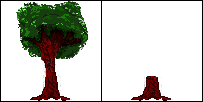
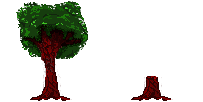
changed the title screen

Changed region(s): [[0.0, 0.0, 1.0, 1.0]]

diff --git a/Marchgame/org.tuxedofish.marchgame/start/Controller.java b/Marchgame/org.tuxedofish.marchgame/start/Controller.java
@@ -210,7 +210,7 @@ public class Controller {
 			elements = false;
 			gui.clearElements();
 			ih.clearElements();
-			gui.newString("loading : 0", Color.red, 100, 20, new Vector2f(0.1f, 0.95f), 20.0f);
+			gui.newString("loading : 0", Color.red, 200, 40, new Vector2f(0.1f, 0.95f), 20.0f);
 			SpriteHolder sph = new SpriteHolder(); ImageReturn images = new ImageReturn();
 			try {
 				sph.addTexture(images.getImage("Enemy2.png"), "Enemy2.png", 49);
@@ -321,8 +321,8 @@ public class Controller {
 		
 		prevhealth = player.getHealth();
 		prevscore = score;
-		scoreid = gui.newString("score : " + score, Color.red, 100, 50, new Vector2f(0.1f, 0.95f), 15.0f);
-		highscoreid = gui.newString("highscore : " + el.getHighScore(), Color.red, 100, 50, new Vector2f(0.1f, 0.85f), 15.0f);
+		scoreid = gui.newString("score : " + score, Color.red, 300, 50, new Vector2f(0.1f, 0.95f), 15.0f);
+		highscoreid = gui.newString("highscore : " + el.getHighScore(), Color.red, 300, 50, new Vector2f(0.1f, 0.85f), 15.0f);
 		elements = true;
 		highscore = el.getHighScore();
 		
@@ -407,7 +407,11 @@ public class Controller {
 		glClearColor(1.0f, 1.0f, 1.0f, 1.0f);
 		
 		gui = new GuiElementHandler();
-		gui.newString("Press X To Play", Color.WHITE, 200.0f, 40.0f, new Vector2f(-0.3f, -0.7f), 25.0f);
+		gui.newString("< NEW GAME >", Color.WHITE, 100, 20, new Vector2f(-0.22f, -0.3f), 10.0f);
+		gui.newString("< FREE PLAY >", Color.WHITE, 100, 20, new Vector2f(-0.22f, -0.4f), 10.0f);
+		gui.newString("< AREANA >", Color.WHITE, 100, 20, new Vector2f(-0.22f, -0.5f), 10.0f);
+		gui.newString("< OPTIONS>", Color.WHITE, 100, 20, new Vector2f(-0.22f, -0.6f), 10.0f);
+		
 		elements = true;
 		
 		DataUtils dutils = new DataUtils();
@@ -442,7 +446,7 @@ public class Controller {
 							gui.clearElements();
 							ih.clearElements();
 							gui.newBar("bar", new Vector2f(-0.5f, 0.95f), loadpercent);
-							gui.newString("loading : " + loadpercent, Color.red, 100, 20, new Vector2f(0.1f, 0.95f), 20.0f);
+							gui.newString("loading : " + loadpercent, Color.red, 200, 40, new Vector2f(0.1f, 0.95f), 20.0f);
 						}
 					}
 					
@@ -451,8 +455,6 @@ public class Controller {
 						if(el!=null) {
 							utils.setup(bgdatafb, bgvbo, bgvao, shaderhandler, loadscreen, 1, bgindicesb, matrix, 0);
 						} else {
-							gui.clearElements();
-							gui.newString("Press X To Play", new Color(0.0f, 0.0f, 0.0f, opacity), 200.0f, 40.0f, new Vector2f(-0.3f, -0.7f), 25.0f);
 							utils.setup(bgdatafb, bgvbo, bgvao, shaderhandler, titlescreen, 1, bgindicesb, matrix, 0);
 						}
 						glDrawElements(GL_TRIANGLES, 6, GL_UNSIGNED_INT, 0);

diff --git a/Marchgame/org.tuxedofish.marchgame/start/gui/GuiString.java b/Marchgame/org.tuxedofish.marchgame/start/gui/GuiString.java
@@ -102,7 +102,7 @@ public class GuiString implements GuiElement{
 		
 		ImageReturn images = new ImageReturn();
 		try {
-			g.setFont(Font.createFont(Font.TRUETYPE_FONT, images.getFont("HARLOWSI.TTF")).deriveFont(size));
+			g.setFont(Font.createFont(Font.TRUETYPE_FONT, images.getFont("airstrike.ttf")).deriveFont(size));
 		} catch (FontFormatException | IOException e) {
 			System.err.println("err loading font");
 			e.printStackTrace();
@@ -131,11 +131,11 @@ public class GuiString implements GuiElement{
 			}
 		}
 		
-		img = new BufferedImage((int)rect.getWidth(), (int)rect.getHeight(), BufferedImage.TYPE_4BYTE_ABGR);
+		img = new BufferedImage((int)rect.getWidth()*3, (int)rect.getHeight()*3, BufferedImage.TYPE_4BYTE_ABGR);
 		g = img.getGraphics();
 		
 		try {
-			g.setFont(Font.createFont(Font.TRUETYPE_FONT, images.getFont("HARLOWSI.TTF")).deriveFont(size));
+			g.setFont(Font.createFont(Font.TRUETYPE_FONT, images.getFont("airstrike.ttf")).deriveFont(size*3));
 		} catch (FontFormatException | IOException e) {
 			System.err.println("err loading font");
 			e.printStackTrace();

diff --git a/Marchgame/org.tuxedofish.marchgame/utils/TextureUtils.java b/Marchgame/org.tuxedofish.marchgame/utils/TextureUtils.java
@@ -49,12 +49,12 @@ public class TextureUtils {
 		
 		glPixelStorei(GL_UNPACK_ALIGNMENT, 1);
         //Setup wrap mode
-        glTexParameteri(GL_TEXTURE_2D, GL_TEXTURE_WRAP_S, GL_CLAMP);
-        glTexParameteri(GL_TEXTURE_2D, GL_TEXTURE_WRAP_T, GL_CLAMP);
+        glTexParameteri(GL_TEXTURE_2D, GL_TEXTURE_WRAP_S, GL_REPEAT);
+        glTexParameteri(GL_TEXTURE_2D, GL_TEXTURE_WRAP_T, GL_REPEAT);
 
         //Setup texture scaling filtering
-        glTexParameteri(GL_TEXTURE_2D, GL_TEXTURE_MIN_FILTER, GL_NEAREST);
-        glTexParameteri(GL_TEXTURE_2D, GL_TEXTURE_MAG_FILTER, GL_NEAREST);
+        glTexParameteri(GL_TEXTURE_2D, GL_TEXTURE_MIN_FILTER, GL_LINEAR);
+        glTexParameteri(GL_TEXTURE_2D, GL_TEXTURE_MAG_FILTER, GL_LINEAR);
         
         //Send texel data to OpenGL
         glTexImage2D(GL_TEXTURE_2D, 0, 4, img.getWidth(), img.getHeight(), 0, GL_RGBA, GL_UNSIGNED_BYTE, imgdata);

diff --git a/Marchgame/org.tuxedofish.marchgame/start/gui/GuiElementHandler.java b/Marchgame/org.tuxedofish.marchgame/start/gui/GuiElementHandler.java
@@ -92,7 +92,7 @@ public class GuiElementHandler {
 	}
 	public int newStringAtPos(String str, Color c, Vector2f pos, float size) {
 		elements.add(new GuiString(str, c, new Vector2f(pos.x, pos.y), 
-			(size/2.5f)*str.length(), size, pos, size));
+			(size)*str.length(), size*2, pos, size));
 		content.add(str);
 		images.add(elements.get(elements.size()-1).getImg());
 		bounds.add(elements.get(elements.size()-1).getBounds());

diff --git a/Marchgame/org.tuxedofish.marchgame/object/Sprite.java b/Marchgame/org.tuxedofish.marchgame/object/Sprite.java
@@ -183,8 +183,8 @@ public class Sprite{
 		FloatBuffer datafb;
 		
 		float z = 0.0f;
-		float realwidth = (float)width/Display.getWidth();
-		float realheight = (float)height/Display.getHeight();
+		float realwidth = (float)(width)/Display.getWidth();
+		float realheight = (float)(height)/Display.getHeight();
 		Vector2f[] tc = th.getTextureCoords(texid);
 		
 		data = new float[]{

diff --git a/Marchgame/org.tuxedofish.marchgame/texture/Texture.java b/Marchgame/org.tuxedofish.marchgame/texture/Texture.java
@@ -19,7 +19,7 @@ public class Texture {
 		};
 	}
 	private float roundTwoDecimals(float d) {
-        DecimalFormat twoDForm = new DecimalFormat("#.######");
+        DecimalFormat twoDForm = new DecimalFormat("#.############");
         return d;
 	}
 	public Texture(int texid, Vector2f pos, float width, float height, float parentwidth, float parentheight) {

diff --git a/Marchgame/org.tuxedofish.marchgame/logic/entities/Enemy.java b/Marchgame/org.tuxedofish.marchgame/logic/entities/Enemy.java
@@ -16,6 +16,7 @@ import javax.sound.sampled.LineUnavailableException;
 
 import logic.GridParser;
 
+import org.lwjgl.*;
 import org.lwjgl.opengl.Display;
 import org.lwjgl.util.vector.Matrix4f;
 import org.lwjgl.util.vector.Vector2f;
